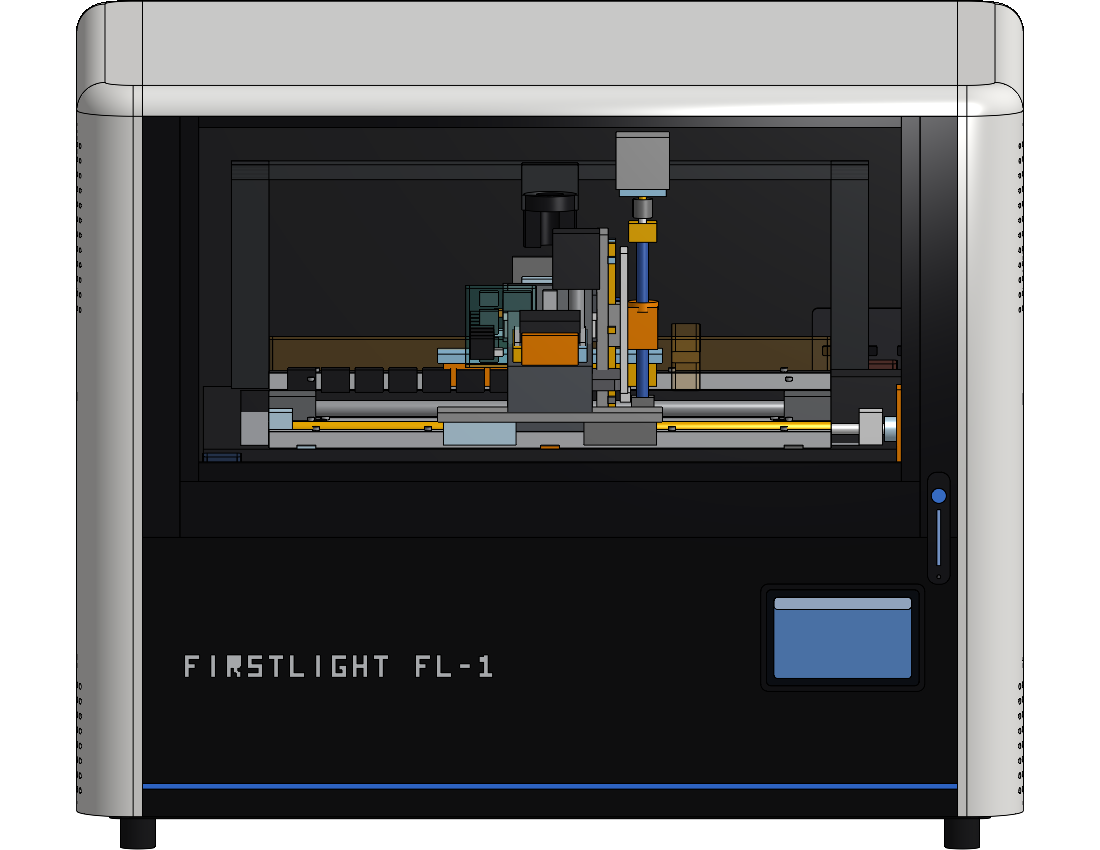
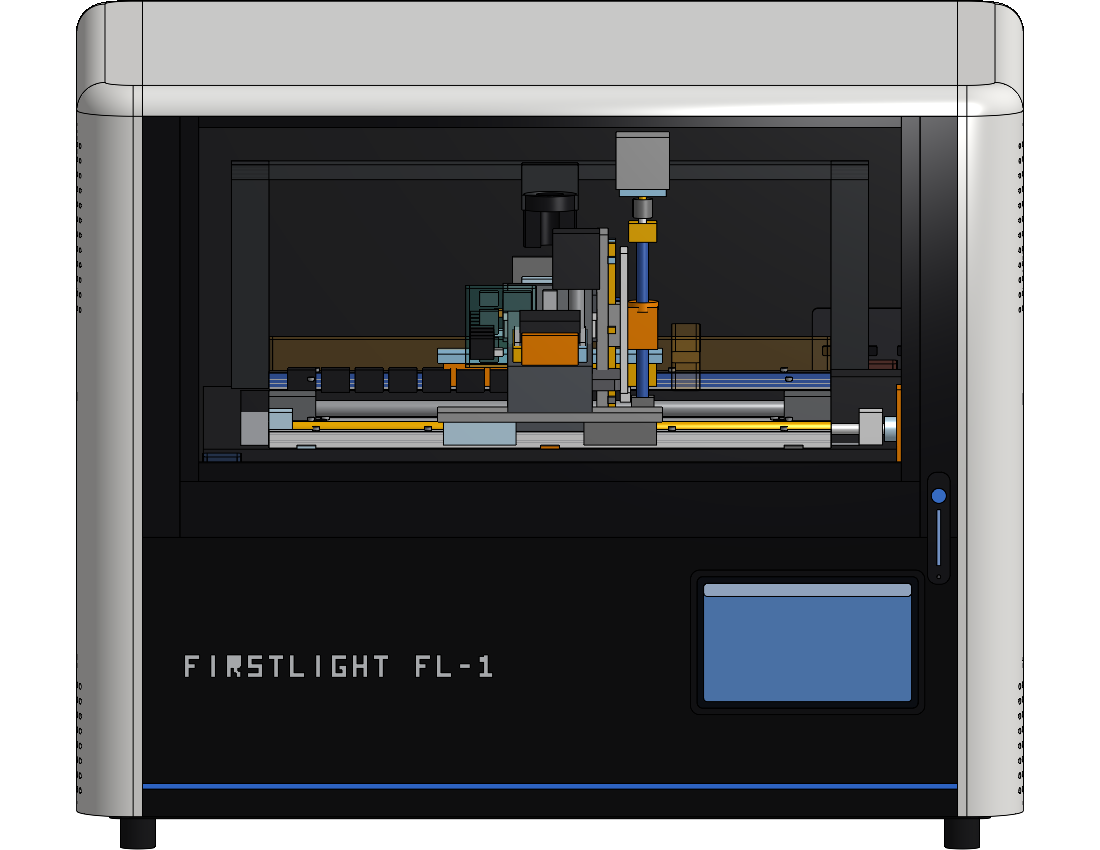
Upsize display to 10.1in; Phase D drawing set; RFQ rev B
- Touch display rebuilt at 10.1 in (1280x800), bezel 250x155 on the
  plinth band; one-pager + expansion spec + renders updated.
- Phase D: MBD drawing sheets for the 14 key EE-FAB parts — per-part A4
  PDF with FRONT/TOP/RIGHT/ISO views (per-part shadedviews endpoint),
  title block (PN, qty, material, finish, envelope), critical-feature
  callouts (H7 bores, flatness, Class A), governing ISO 2768-mK note.
  Combined set: docs/rfq/drawings/fl1-evt-drawing-set.pdf.
- RFQ rev B: fab CSV gains drawing-ref column, cover references the
  drawing set and the 10.1 in display; CSVs regenerated from live model.

diff --git a/docs/firstlight-fl1-onepager.html b/docs/firstlight-fl1-onepager.html
@@ -92,7 +92,7 @@
       <tr><th>Fixture plate</th><td>520 × 420 mm, tooling pins + vacuum + edge clamps</td></tr>
       <tr><th>Axis feed</th><td>X/Y 150 mm/s · Z 25 mm/s (ballscrew + servo)</td></tr>
       <tr><th>Mass</th><td>&lt;100 kg production target</td></tr>
-      <tr><th>Operator interface</th><td>7&nbsp;in front touch panel + web UI; runs standalone</td></tr>
+      <tr><th>Operator interface</th><td>10.1&nbsp;in front touch panel + web UI; runs standalone</td></tr>
       <tr><th>Cooling</th><td>Twin 120 mm filtered exhaust, still-air test chamber</td></tr>
     </table>
   </div>

diff --git a/tools/onshape/phase_d_drawings.py b/tools/onshape/phase_d_drawings.py
@@ -1,0 +1,153 @@
+"""Phase D — model-based drawing sheets for the EE-FAB parts (2026-06-12).
+
+Onshape's drawing API cannot auto-dimension, so Phase D ships MBD-style
+reference sheets: per-part A4-landscape PDF with FRONT / TOP / RIGHT / ISO
+shaded views (per-part shadedviews endpoint) and a title block carrying
+part number, material, finish, quantity, envelope dims, and the governing
+note: DIMENSIONS PER 3D MODEL (Part_Studio_1_v5.step), ISO 2768-mK.
+Critical-feature callouts come from the RFQ cover (rail-face flatness,
+H7 press bores). Output: docs/rfq/drawings/<PN>-<slug>.pdf + combined
+fl1-evt-drawing-set.pdf.
+"""
+import base64
+import io
+import math
+import os
+import time
+import warnings
+
+warnings.filterwarnings("ignore")
+
+import sys
+
+sys.path.insert(0, "/Users/jackal-kahwati/EE-lab/tools/onshape")
+
+from urllib.parse import quote
+
+from features import FeatureBuilder
+from onshape_client import Client
+from PIL import Image, ImageDraw, ImageFont
+
+DID = "02ed72e43f8d925e0c7aa678"
+WID = "80299bfade6ea16b1cd86a0e"
+EID = "8a871c2acd668dc865dda723"
+
+#: pn, representative part, qty, finish, critical note
+SHEETS = [
+    ("EE-FAB-ARM", "Probe Mount Arm", 1, "Clear anodize",
+     "Guide-pin bores O5.5 H7; slide-plate interface face flat 0.02"),
+    ("EE-FAB-PHD", "Probe Head", 1, "Clear anodize",
+     "Cartridge pocket +0.5/-0 clearance; dowel bores O3.2 H7"),
+    ("EE-FAB-FIXP", "PCB Fixture Plate", 1, "Clear anodize",
+     "Locating pin bores H7; top face flat 0.05 over span"),
+    ("EE-FAB-DECK", "Instrument Deck", 1, "Powder coat matte black",
+     "Rack/standoff hole pattern true position 0.1"),
+    ("EE-FAB-STDF", "Fixture Standoff FL", 4, "Clear anodize", "Length +/-0.05"),
+    ("EE-FAB-CLMP", "Adjustable Clamp Front", 4, "Clear anodize",
+     "6 mm adjustment slot; deburr slot edges"),
+    ("EE-FAB-CRDL", "Cartridge Cradle 1", 3, "Clear anodize",
+     "22 mm park slot +0.2/-0"),
+    ("EE-FAB-RACK", "Cartridge Park Rack Base", 1, "Clear anodize", ""),
+    ("EE-FAB-DUTIF", "DUT Interface Bulkhead", 1, "Powder coat matte black",
+     "Connector cutouts per model"),
+    ("EE-FAB-CAMBKT", "Overhead Camera Bracket Beam", 1, "Clear anodize",
+     "Camera pocket faces flat 0.05"),
+    ("EE-FAB-TOP", "Top Slab", 1, "Cosmetic Class A",
+     "R30 roundovers mate shell contour; exterior no tool marks"),
+    ("EE-FAB-SHL", "Side Shell Left", 2, "Cosmetic Class A",
+     "Qty 2 = L + R MIRRORED; 5 mm wall; exterior Class A"),
+    ("EE-FAB-BPAN", "Enclosure Base Pan", 1, "Powder coat matte black", ""),
+    ("EE-FAB-DSPBZL", "Touch Display Bezel", 1, "Cosmetic Class A",
+     "Display aperture per panel datasheet"),
+]
+
+#: view name -> 9 rotation floats (rows: right, up, -forward)
+def vm(yaw_deg, pitch_deg):
+    import numpy as np
+    yaw, pitch = math.radians(yaw_deg), math.radians(pitch_deg)
+    f = np.array([math.sin(yaw) * math.cos(pitch),
+                  math.cos(yaw) * math.cos(pitch), math.sin(pitch)])
+    f /= np.linalg.norm(f)
+    r = np.cross(f, np.array([0, 0, 1.0])); r /= np.linalg.norm(r)
+    u = np.cross(r, f)
+    return ",".join("{:.6f}".format(v) for row in [r, u, -f] for v in list(row) + [0.0])
+
+VIEWS = [
+    ("FRONT", "1,0,0,0,0,0,1,0,0,-1,0,0"),
+    ("TOP", "1,0,0,0,0,1,0,0,0,0,1,0"),
+    ("RIGHT", "0,1,0,0,0,0,1,0,1,0,0,0"),
+    ("ISO", vm(30, -30)),
+]
+
+OUT = "/Users/jackal-kahwati/EE-lab/docs/rfq/drawings"
+os.makedirs(OUT, exist_ok=True)
+
+c = Client()
+fb = FeatureBuilder(c, DID, WID, EID)
+ids = {name: pid for pid, name in fb.parts().items()}
+bb = fb.all_bboxes()
+
+def font(sz, bold=False):
+    try:
+        return ImageFont.truetype("/System/Library/Fonts/Helvetica.ttc", sz,
+                                  index=1 if bold else 0)
+    except Exception:
+        return ImageFont.load_default()
+
+W, H = 1754, 1240  # A4 landscape @150dpi
+sheets = []
+for idx, (pn, part, qty, finish, note) in enumerate(SHEETS):
+    pid = ids[part]
+    views = []
+    for vname, mat in VIEWS:
+        resp = c._request(
+            "GET", "/api/v6/parts/d/{}/w/{}/e/{}/partid/{}/shadedviews".format(
+                DID, WID, EID, quote(pid, safe="")),
+            params={"viewMatrix": mat, "outputHeight": 480, "outputWidth": 660,
+                    "pixelSize": 0})
+        views.append((vname, Image.open(io.BytesIO(
+            base64.b64decode(resp["images"][0]))).convert("RGB")))
+        time.sleep(0.4)
+
+    sheet = Image.new("RGB", (W, H), "white")
+    d = ImageDraw.Draw(sheet)
+    d.rectangle([10, 10, W - 10, H - 10], outline="black", width=3)
+    # 2x2 view grid
+    cells = [(20, 20), (890, 20), (20, 540), (890, 540)]
+    for (vname, img), (cx, cy) in zip(views, cells):
+        sheet.paste(img, (cx + 90, cy + 16))
+        d.text((cx + 14, cy + 8), vname, font=font(26, True), fill="black")
+        d.rectangle([cx + 8, cy + 4, cx + 848, cy + 506], outline="#999", width=1)
+    # title block
+    tb_y = H - 178
+    d.rectangle([W - 760, tb_y, W - 12, H - 12], outline="black", width=2)
+    b = bb[part]
+    dims = sorted([b["highX"] - b["lowX"], b["highY"] - b["lowY"],
+                   b["highZ"] - b["lowZ"]], reverse=True)
+    rows = [
+        ("TITLE", part), ("PART NO", pn), ("QTY", str(qty)),
+        ("ENVELOPE", "{:.0f} x {:.0f} x {:.0f} mm".format(*dims)),
+        ("FINISH", finish),
+    ]
+    y = tb_y + 8
+    for k, v in rows:
+        d.text((W - 748, y), k, font=font(18), fill="#666")
+        d.text((W - 600, y), v[:52], font=font(20, True), fill="black")
+        y += 30
+    d.text((20, tb_y + 4),
+           "DIMENSIONS PER 3D MODEL: Part_Studio_1_v5.step  |  GENERAL TOLERANCE ISO 2768-mK  |  "
+           "DEBURR ALL EDGES", font=font(19), fill="black")
+    if note:
+        d.text((20, tb_y + 34), "CRITICAL: " + note, font=font(19, True), fill="#b00")
+    d.text((20, tb_y + 72), "FIRSTLIGHT FL-1  ·  EVT BUILD  ·  EE-lab  ·  2026-06-12  ·  "
+           "SCALE NTS  ·  SHEET {} / {}".format(idx + 1, len(SHEETS)),
+           font=font(18), fill="#444")
+    slug = part.lower().replace(" ", "-")
+    path = "{}/{}-{}.pdf".format(OUT, pn, slug)
+    sheet.save(path, "PDF", resolution=150)
+    sheets.append(sheet)
+    print("sheet:", pn, part, flush=True)
+
+sheets[0].save("{}/fl1-evt-drawing-set.pdf".format(OUT), "PDF", resolution=150,
+               save_all=True, append_images=sheets[1:])
+print("PHASE D COMPLETE: {} sheets + combined set".format(len(sheets)))

diff --git a/docs/rfq/fl1-evt-rfq-cover.md b/docs/rfq/fl1-evt-rfq-cover.md
@@ -1,6 +1,7 @@
 # RFQ — FirstLight FL-1, EVT Build (Qty 1 + Spares)
 
-Date: 2026-06-11 · Program: FirstLight FL-1 autonomous PCB bring-up station
+Date: 2026-06-12 (rev B — drawing set added, display upsized to 10.1 in)
+· Program: FirstLight FL-1 autonomous PCB bring-up station
 · Phase: EVT (engineering validation) · Buyer contact: Jack Al-Kahwati
 
 ## 1. Scope
@@ -19,13 +20,16 @@ at qty 5 and qty 25 (DVT/pilot forecast) on machined and sheet items.
 | File | Content |
 |---|---|
 | `cad/electronics-bringup-station/Part_Studio_1_v5.step` | Full machine STEP (AP203), part names match RFQ descriptions |
-| `fl1-evt-fab-rfq.csv` | Fab line items: PN, qty, material, process, envelope, finish |
+| `fl1-evt-fab-rfq.csv` | Fab line items: PN, qty, material, process, envelope, finish, drawing ref |
 | `fl1-evt-cots-buy.csv` | COTS buy list: vendor, PN, qty |
+| `drawings/` | MBD reference sheets for the 14 key parts: 4 views + title block + critical-feature callouts (`fl1-evt-drawing-set.pdf` = combined set) |
 | `docs/images/fl1-*.png` | Orientation renders |
 
-Quote is **to 3D model + this spec** (2D drawings follow at DVT). Part
-geometry is extracted from the STEP by the part names listed in the
-`ref_parts` column.
+Quote is **to 3D model + this spec** (model-based definition). The drawing
+sheets in `drawings/` carry per-part critical-feature callouts and the
+governing tolerance note; they are reference views, not fully-dimensioned
+prints (those follow at DVT). Part geometry is extracted from the STEP by
+the part names listed in the `ref_parts` column.
 
 ## 3. General specifications
 

diff --git a/cad/electronics-bringup-station/hardware-expansion-spec.md b/cad/electronics-bringup-station/hardware-expansion-spec.md
@@ -115,7 +115,7 @@ personality is a passive harness; switching is the custom DUT interface board.
 
 | Item | V1 selection | Notes |
 |---|---|---|
-| Front touch display | 7 in capacitive HDMI/USB panel, 1024x600 (Waveshare-class industrial) | Plinth band front-right beside the power cluster. Standalone operation: run jobs, progress, diagnosis verdict, calibration wizards. Full test authoring stays on the web UI. |
+| Front touch display | 10.1 in capacitive HDMI/USB panel, 1280x800 (Waveshare-class industrial) | Plinth band front-right beside the power cluster. Standalone operation: run jobs, progress, diagnosis verdict, calibration wizards. Full test authoring stays on the web UI. |
 
 The locked BOM's "screenless" rule bans embedded INSTRUMENT screens from
 showing (product identity); the product's own display reinforces that